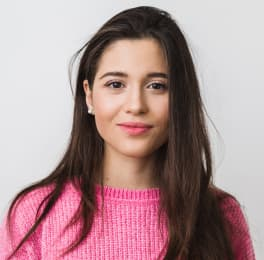
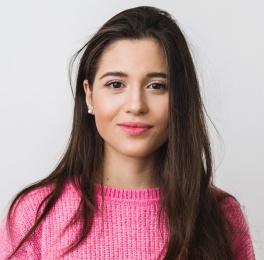
before mentor chech

diff --git a/index.html b/index.html
@@ -172,9 +172,11 @@
             <li class="team-list-item">
               <img
                 class="team-list-img"
+                srcset="images/team/mark.jpg 1x, images/team/mark@2x.jpg 2x"
                 src="./images/team/mark.jpg"
                 alt="Mark Guerrero"
                 width="264"
+                loading="lazy"
               />
               <div class="team-content">
                 <h3 class="name">Mark Guerrero</h3>
@@ -215,9 +217,11 @@
             <li class="team-list-item">
               <img
                 class="team-list-img"
+                srcset="./images/team/tom.jpg 1x, ./images/team/tom@2x.jpg 2x"
                 src="./images/team/tom.jpg"
                 alt="Tom Ford"
                 width="264"
+                loading="lazy"
               />
               <div class="team-content">
                 <h3 class="name">Tom Ford</h3>
@@ -258,9 +262,14 @@
             <li class="team-list-item">
               <img
                 class="team-list-img"
+                srcset="
+                  ./images/team/camila.jpg    1x,
+                  ./images/team/camila@2x.jpg 2x
+                "
                 src="./images/team/camila.jpg"
                 alt="Camila Garcia"
                 width="264"
+                loading="lazy"
               />
               <div class="team-content">
                 <h3 class="name">Camila Garcia</h3>
@@ -301,9 +310,14 @@
             <li class="team-list-item">
               <img
                 class="team-list-img"
+                srcset="
+                  ./images/team/daniel.jpg    1x,
+                  ./images/team/daniel@2x.jpg 2x
+                "
                 src="./images/team/daniel.jpg"
                 alt="Daniel Wilson"
                 width="264"
+                loading="lazy"
               />
               <div class="team-content">
                 <h3 class="name">Daniel Wilson</h3>

diff --git a/css/style.css b/css/style.css
@@ -248,16 +248,50 @@ img {
   max-width: 1440px;
   margin: 0 auto;
   background: var(--brand-color);
-  background-image: linear-gradient(
-      rgba(46, 47, 66, 0.7),
-      rgba(46, 47, 66, 0.7)
-    ),
-    url(../images/hero/hero_bg.jpg);
   text-align: center;
   padding: 188px 0;
   background-size: cover;
   background-repeat: no-repeat;
   background-position: center;
+  background-image: linear-gradient(
+      rgba(46, 47, 66, 0.7),
+      rgba(46, 47, 66, 0.7)
+    ),
+    url(../images/hero/Dark-bg_mob.jpg);
+}
+
+@media (min-device-pixel-ratio: 2),
+  (min-resolution: 192dpi),
+  (min-resolution: 2dppx) {
+  .hero {
+    background-image: linear-gradient(
+        rgba(46, 47, 66, 0.7),
+        rgba(46, 47, 66, 0.7)
+      ),
+      url(../images/hero/Dark-bg@2x.jpg);
+  }
+}
+
+@media only screen and (min-width: 768px) {
+  .hero {
+    background-image: linear-gradient(
+        rgba(46, 47, 66, 0.7),
+        rgba(46, 47, 66, 0.7)
+      ),
+      url(../images/hero/hero_bg.jpg);
+  }
+}
+
+@media only screen and (min-width: 768px) and (min-device-pixel-ratio: 2),
+  (min-resolution: 192dpi),
+  (min-resolution: 2dppx) {
+  .hero {
+    background-image: linear-gradient(
+        rgba(46, 47, 66, 0.7),
+        rgba(46, 47, 66, 0.7)
+      ),
+      url(../images/hero/hero_bg@2x.jpg);
+  }
 }
 
 .hero-title {
